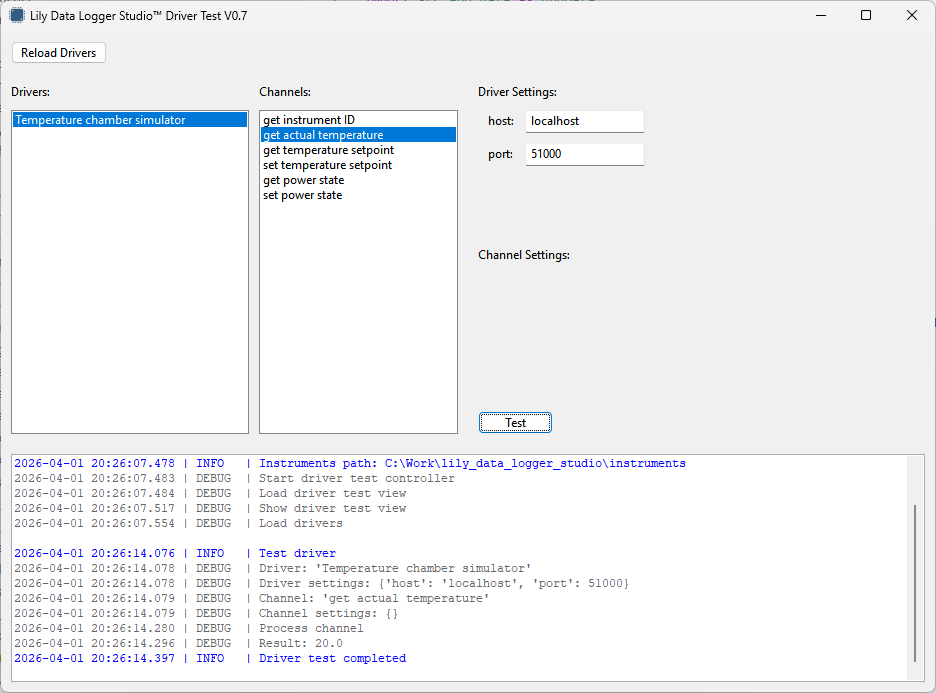
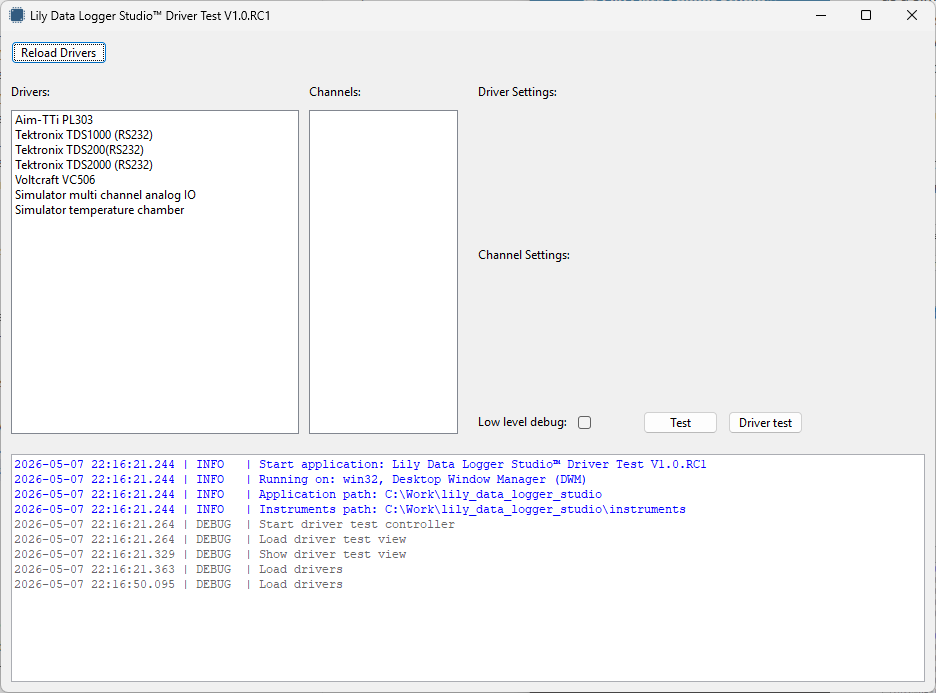
update manual (WIP)

diff --git a/manuals/driver_dev/development_environment.rst b/manuals/driver_dev/development_environment.rst
@@ -1,0 +1,16 @@
+Development environment
+-----------------------
+
+Any development environment suitable for Python development will do.
+For convenience a VS Code workspace is included for developing your driver.
+
+When your driver requires specific Python libraries, these cannot be installed as usual using pip.
+The application is a precompiled executable with Python libraries included.
+When a library is installed on your system using pip it will not be available for the application.
+Even the Python version of the application can be different from the Python version of your system.
+From the lib folder of the application you can retrieve the Python version used.
+Look for the DLL called: `pythonxxx.dll` where `xxx` indicated the Python version.
+
+Libraries can be added by adding the source code of the library to a folder in the instrument package.
+Then the library can be imported from that folder using the source code.
+This is the only way to include specific libraries for your driver.

diff --git a/manuals/driver_dev/driver_request.rst b/manuals/driver_dev/driver_request.rst
@@ -1,0 +1,11 @@
+Driver request
+--------------
+
+If you cannot develop your own driver, we can create one for you.
+
+If you have developed your own driver and want to share it with us, so we can include it
+in our application, you can send the driver to us.
+
+For both situation you can use the `issue tracker`_ on github.
+
+.. _issue tracker: https://github.com/LilyTronics/lily_data_logger_studio/issues

diff --git a/manuals/driver_dev/index.rst b/manuals/driver_dev/index.rst
@@ -1,5 +1,5 @@
-Lily Data Logger Studio Driver Development
-==========================================
+Lily Data Logger Studio™ Driver Development
+===========================================
 
 Lily Data Logger Studio relies on drivers to be able to communicate with different electronic instruments.
 It is impossible to create drivers for all the different instruments that are out there.
@@ -15,4 +15,6 @@ To create a driver the following knowledge is required:
    :caption: Contents:
    :glob:
 
+   development_environment.rst
+   driver_request.rst
    introduction.rst